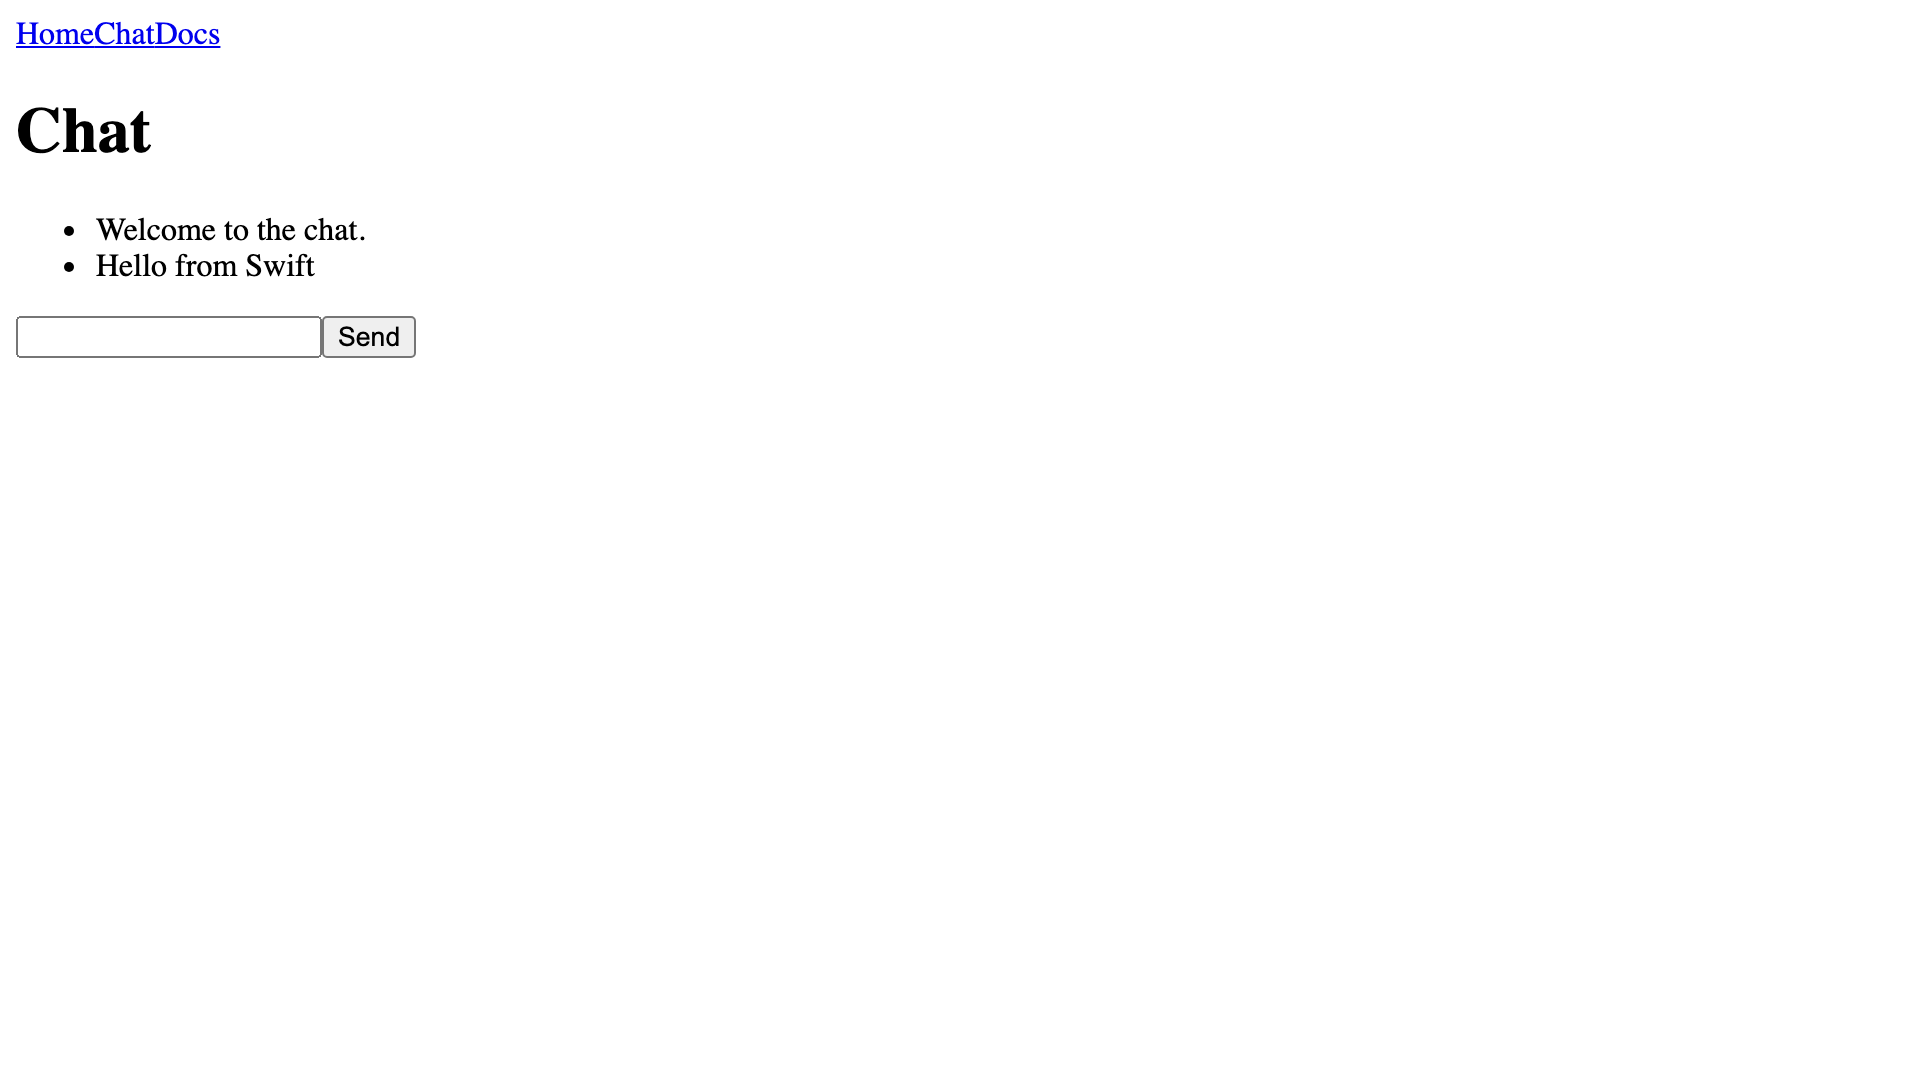
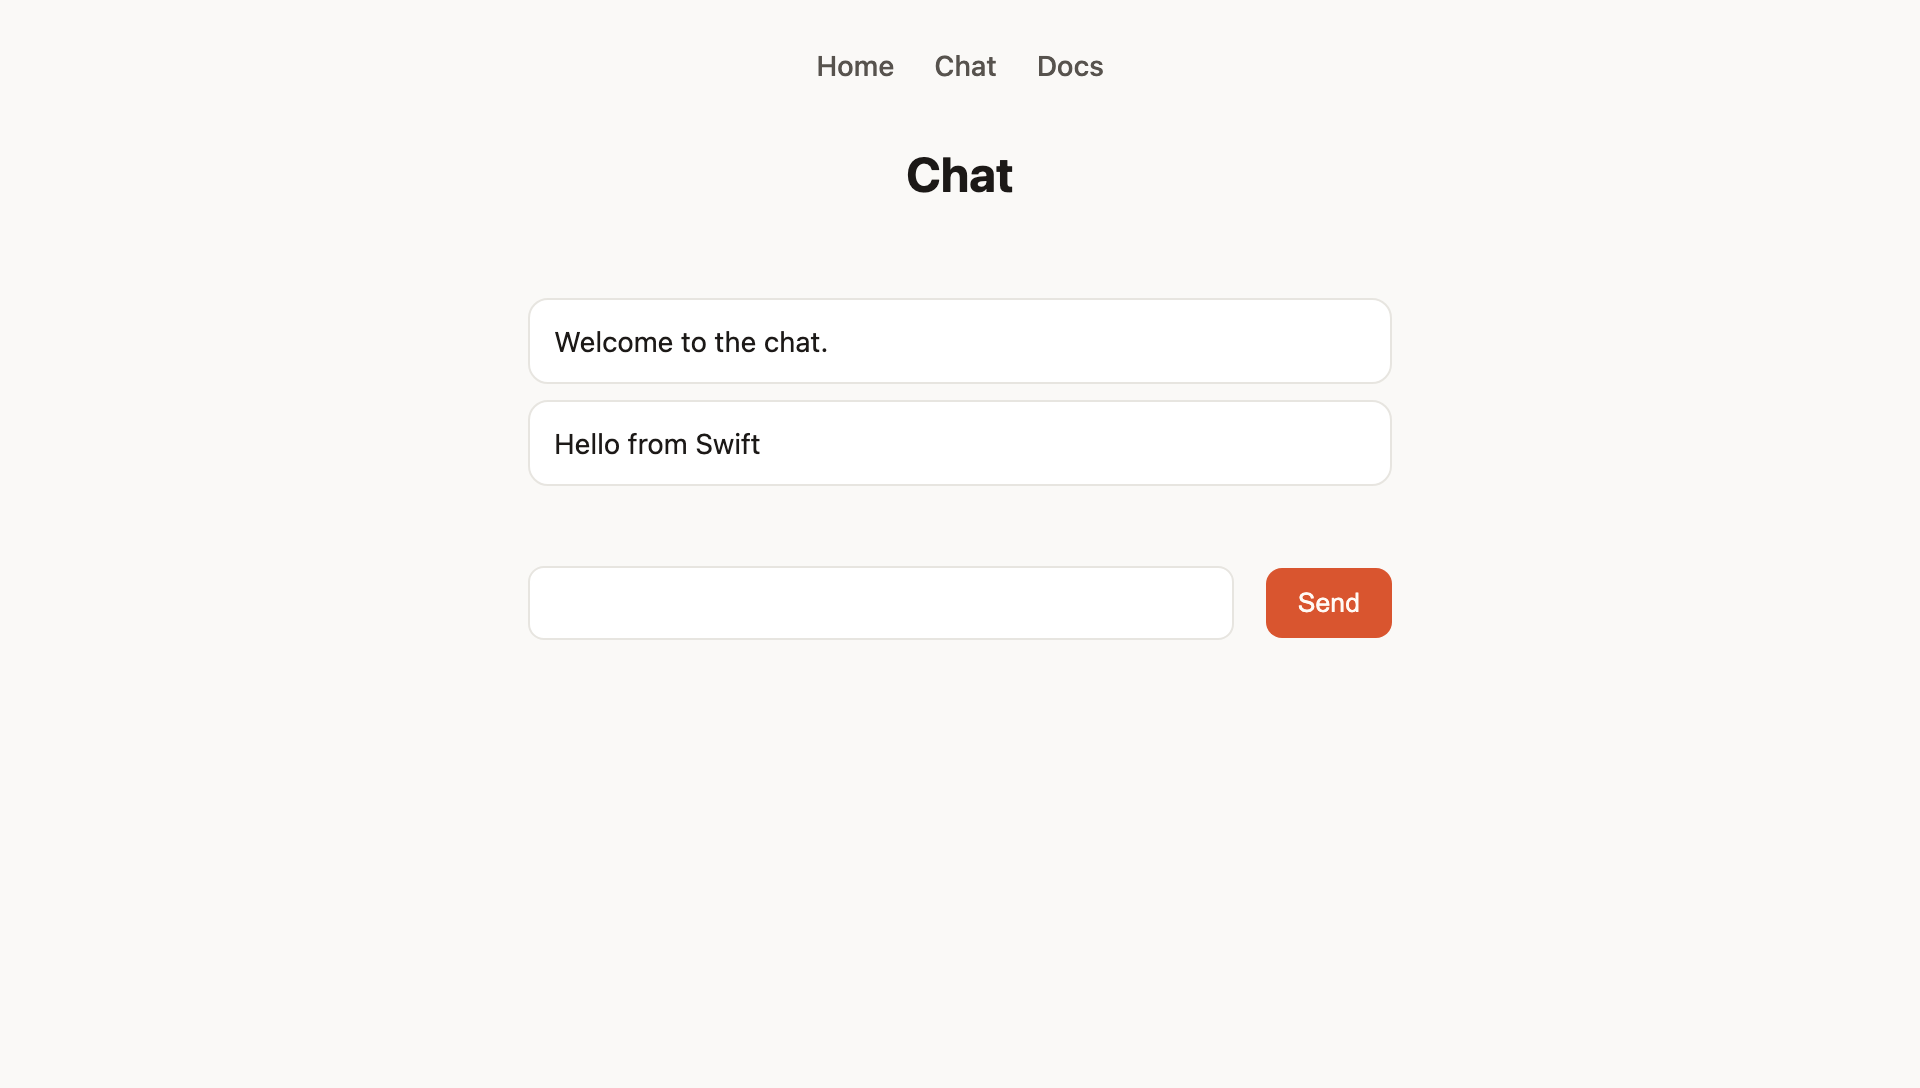
feat(tutorial): styled sample apps for designed screenshots

diff --git a/Sites/Tutorial/Samples/ChatRouter/Sources/main.swift b/Sites/Tutorial/Samples/ChatRouter/Sources/main.swift
@@ -68,6 +68,75 @@ struct ChatApp: App {
 }
 // tutorial:end chat-routes
 
+extension ChatApp {
+    @RulesBuilder static var globalStyles: [Rule] {
+        Rule(element: "body") { p in
+            p.margin(.zero)
+            p.background(.hex("#faf9f7"))
+            p.color(.hex("#1c1917"))
+            p.fontFamily("system-ui, -apple-system, 'Segoe UI', sans-serif")
+        }
+        // flex-wrap + width:100% on nav/h1/.log forces each onto its own line;
+        // Input/Button (not full-width) share the trailing line as a row.
+        Rule(element: "main") { p in
+            p.display(.flex)
+            p.flexWrap(.wrap)
+            p.justifyContent(.center)
+            p.alignItems(.center)
+            p.gap(.px(16))
+            p.maxWidth(.px(480))
+            p.margin(vertical: .zero, horizontal: .auto)
+            p.padding(.px(24))
+            p.boxSizing(.borderBox)
+        }
+        Rule(element: "nav") { p in
+            p.display(.flex)
+            p.gap(.px(20))
+            p.style("width", "100%")
+            p.justifyContent(.center)
+        }
+        Rule(element: "a") { p in
+            p.fontSize(.px(14))
+            p.fontWeight(.custom(500))
+            p.color(.hex("#57534e"))
+            p.textDecoration(.none)
+        }
+        Rule(element: "h1") { p in
+            p.fontSize(.px(24))
+            p.fontWeight(.bold)
+            p.style("width", "100%")
+            p.textAlign(.center)
+        }
+        Rule(class: "log") { p in
+            p.style("list-style", "none")
+            p.style("padding-left", "0")
+            p.style("width", "100%")
+        }
+        Rule(element: "li") { p in
+            p.background(.white)
+            p.padding(.px(12))
+            p.borderRadius(.px(10))
+            p.border(.px(1), .solid, .hex("#e7e5e0"))
+            p.fontSize(.px(14))
+            p.margin(.bottom, .px(8))
+        }
+        Rule(element: "input") { p in
+            p.flexGrow(1)
+            p.borderRadius(.px(8))
+            p.border(.px(1), .solid, .hex("#e7e5e0"))
+            p.padding(.px(10))
+        }
+        Rule(element: "button") { p in
+            p.background(.hex("#d9552f"))
+            p.color(.hex("#fffaf5"))
+            p.borderRadius(.px(8))
+            p.padding(vertical: .px(10), horizontal: .px(16))
+            p.border(.zero, .none, .transparent)
+            p.cursor(.pointer)
+        }
+    }
+}
+
 #if canImport(SwiftWUIStatic)
 import SwiftWUIStatic
 

diff --git a/Sites/Tutorial/Samples/ShipCounter/Sources/main.swift b/Sites/Tutorial/Samples/ShipCounter/Sources/main.swift
@@ -46,6 +46,64 @@ struct RootApp: Tag {
 
 struct ShipCounterApp: App {
     var body: some Tag { RootApp() }
+
+    @RulesBuilder static var globalStyles: [Rule] {
+        Rule(element: "body") { p in
+            p.margin(.zero)
+            p.background(.hex("#ffffff"))
+            p.color(.hex("#1c1917"))
+            p.fontFamily("system-ui, -apple-system, 'Segoe UI', sans-serif")
+        }
+        Rule(element: "main") { p in
+            p.display(.flex)
+            p.flexDirection(.column)
+            p.alignItems(.center)
+            p.padding(.top, .px(56))
+        }
+        // `.counter` is the pre-existing class on Counter's wrapping Div — referenced
+        // here, not added (Counter is byte-pinned to Ch04.counterCode).
+        Rule(class: "counter") { p in
+            p.display(.flex)
+            p.flexWrap(.wrap)
+            p.justifyContent(.center)
+            p.alignItems(.center)
+            p.style("gap", "20px 12px")
+        }
+        // width:100% forces h1 onto its own line in the wrap container above,
+        // leaving the two buttons to share the next line as a row.
+        Rule(element: "h1") { p in
+            p.fontSize(.px(32))
+            p.fontWeight(.bold)
+            p.letterSpacing(.px(-0.5))
+            p.style("width", "100%")
+            p.textAlign(.center)
+        }
+        // ponytail: Counter's two Button calls are byte-pinned with no class hook,
+        // so +/- can't be styled differently from pure CSS — both get one look.
+        Rule(element: "button") { p in
+            p.width(.px(44))
+            p.height(.px(44))
+            p.borderRadius(.px(10))
+            p.fontSize(.px(18))
+            p.fontWeight(.custom(500))
+            p.background(.hex("#d9552f"))
+            p.color(.hex("#fffaf5"))
+            p.border(.zero, .none, .transparent)
+            p.cursor(.pointer)
+        }
+        Rule(element: "h2") { p in
+            p.fontSize(.px(22))
+            p.fontWeight(.bold)
+        }
+        Rule(element: "a") { p in
+            p.color(.hex("#57534e"))
+            p.textDecoration(.none)
+        }
+        Rule(element: "p") { p in
+            p.fontSize(.px(15))
+            p.color(.hex("#57534e"))
+        }
+    }
 }
 
 #if canImport(SwiftWUIStatic)
